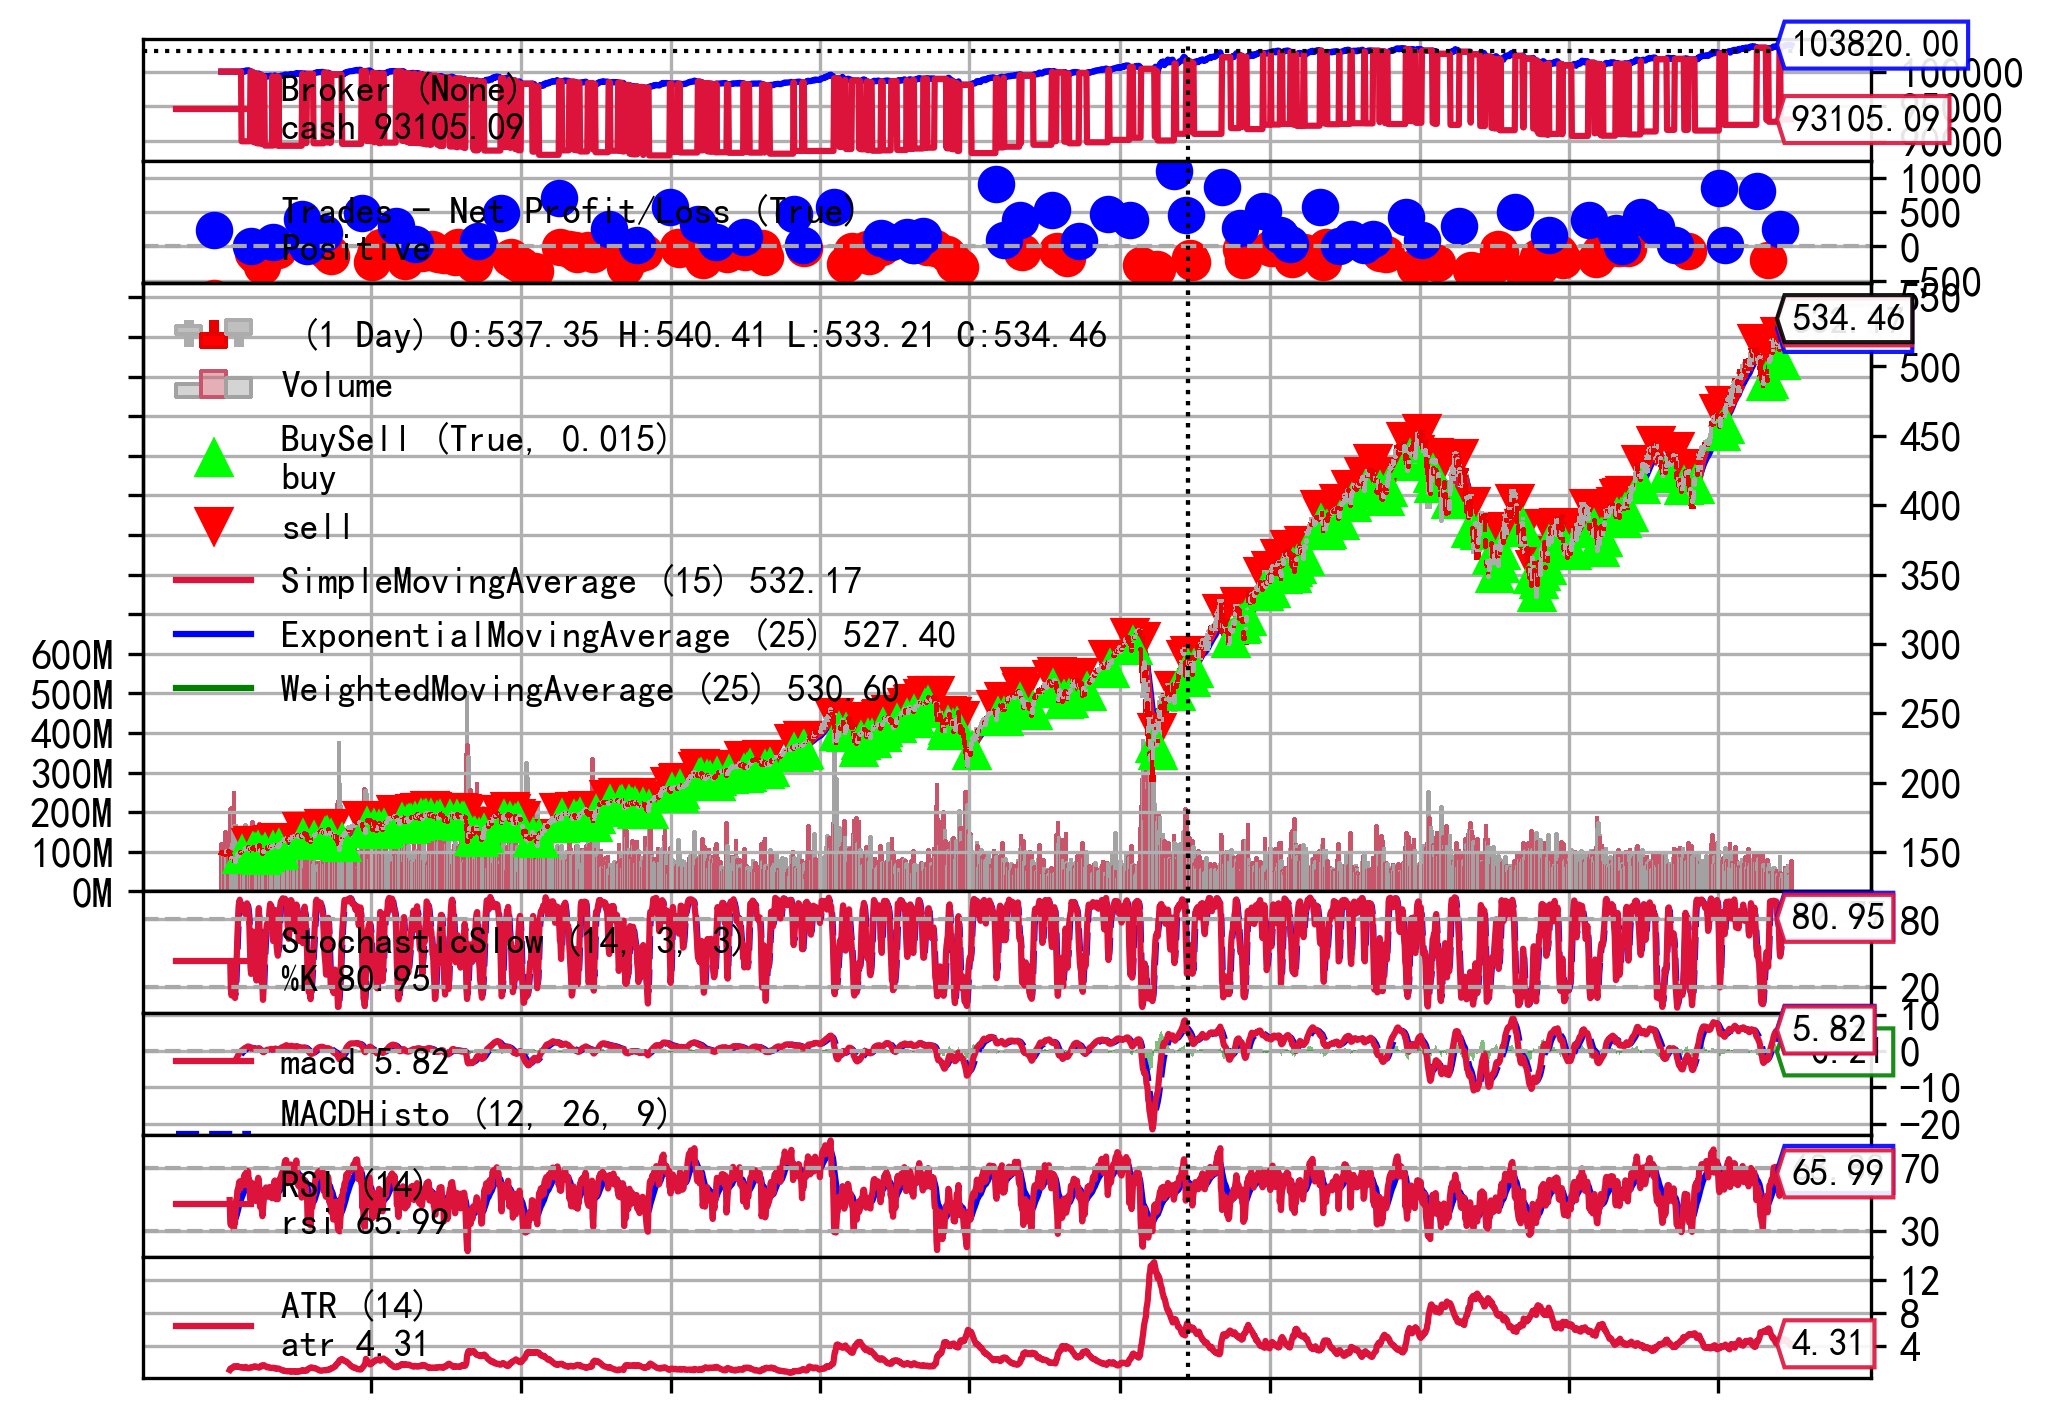
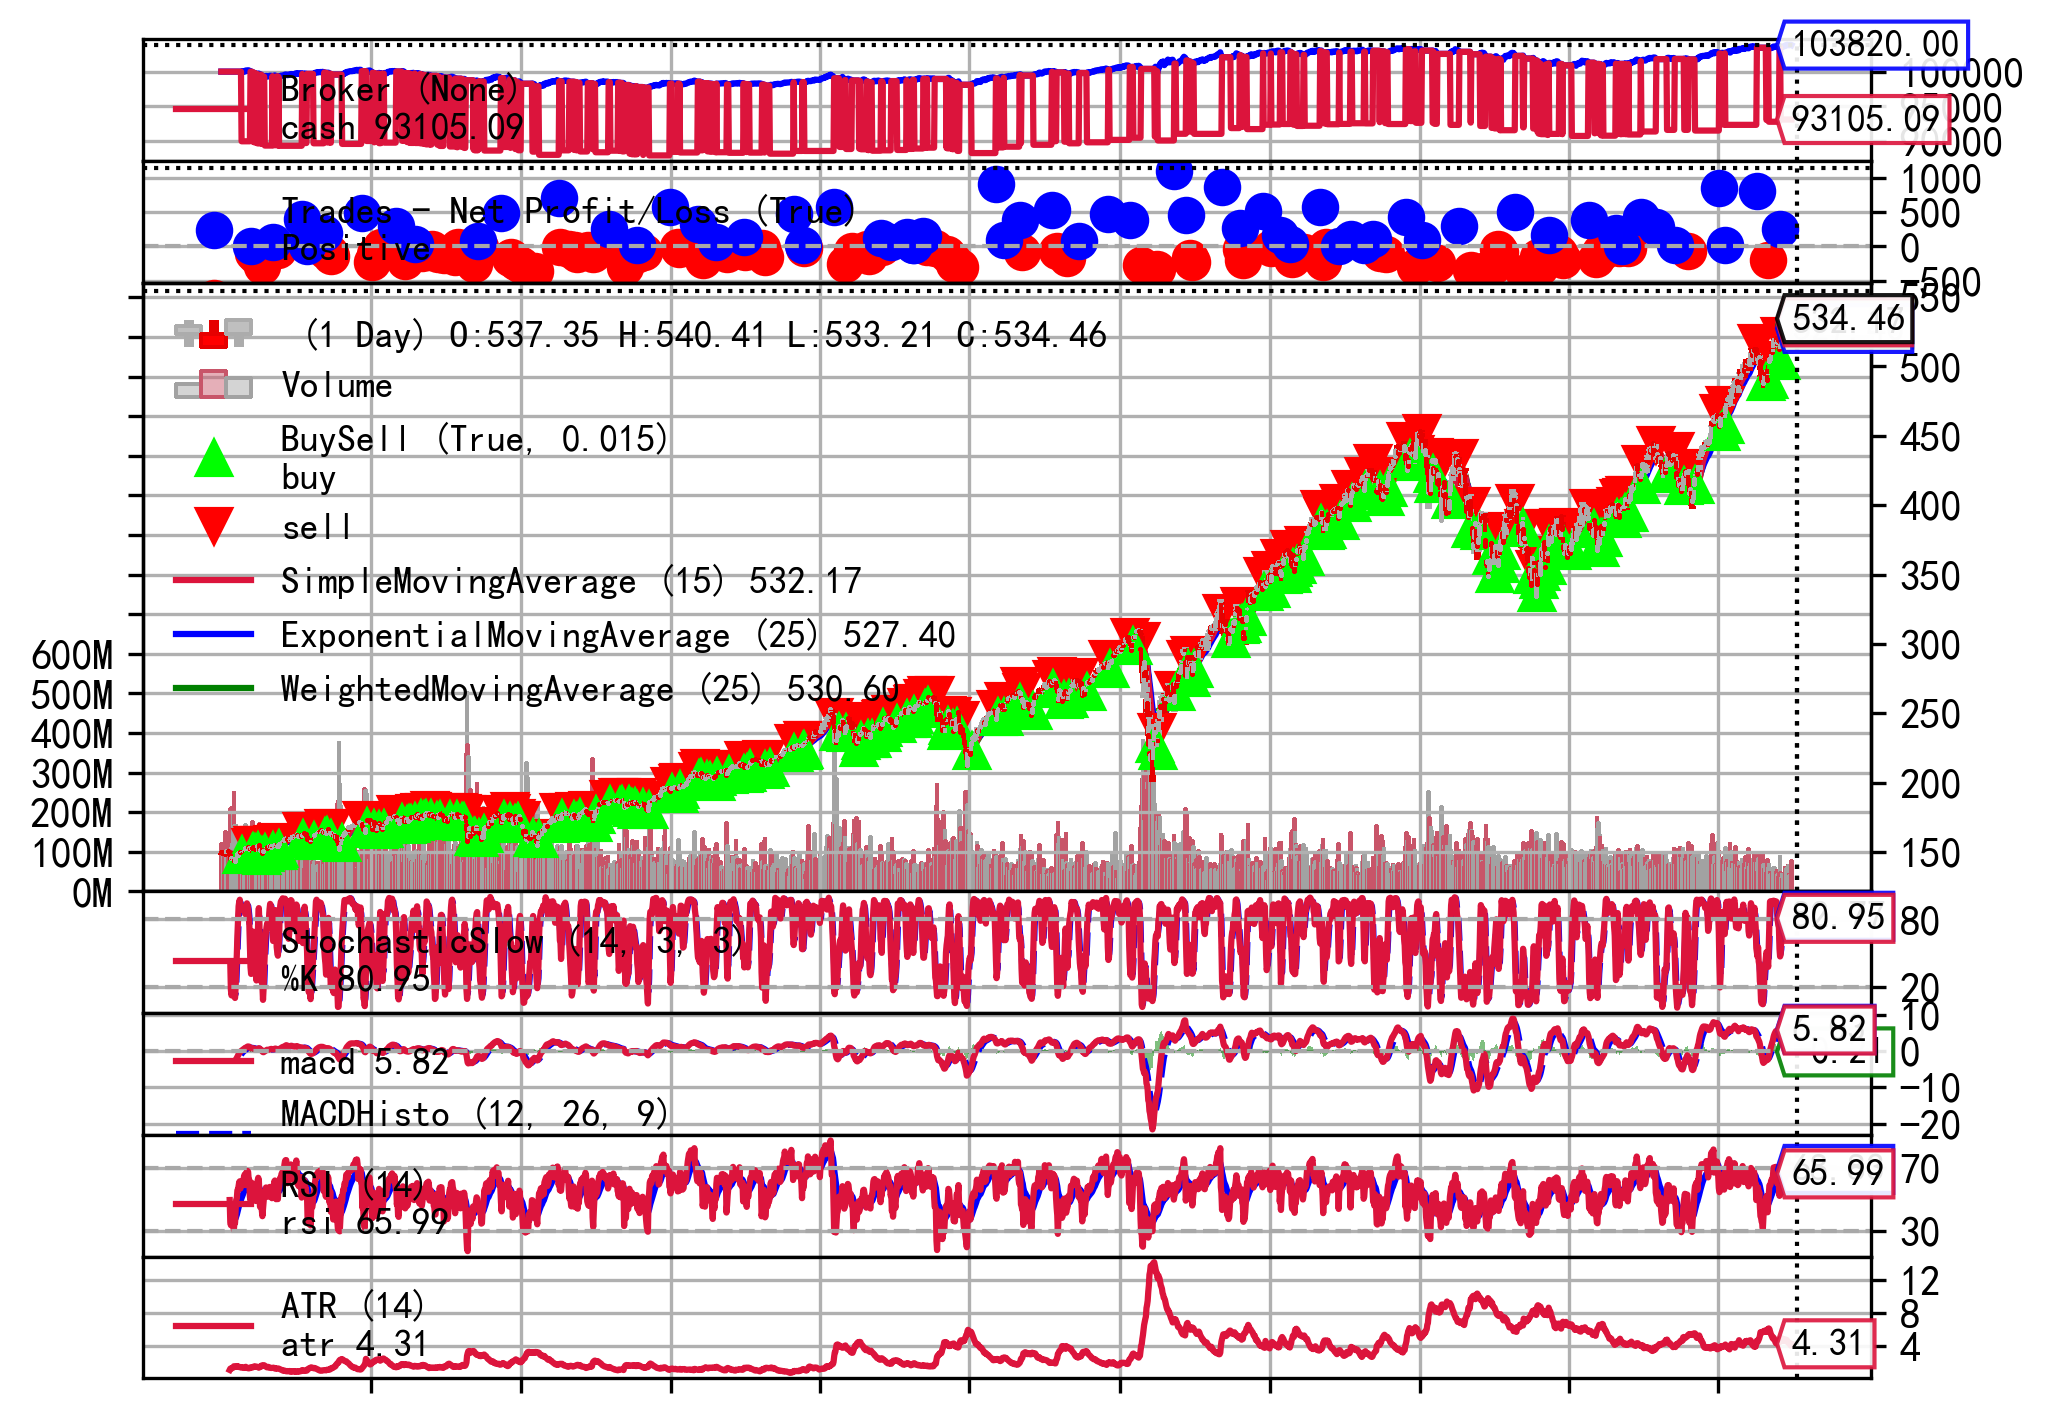
update

diff --git a/strategies/Trend_SMA.py b/strategies/Trend_SMA.py
@@ -2,6 +2,7 @@ import backtrader as bt
 import os
 import datetime
 import pandas as pd
+import numpy as np
 
 class trend_sma(bt.Strategy):
     params = (
@@ -32,6 +33,14 @@ class trend_sma(bt.Strategy):
         self.log_filename = os.path.join(backtests_log_dir, f'log_sma_{self.params.dataname}.txt')
         with open(self.log_filename, 'w', encoding='utf-8') as f:
             f.write('Date, Log Content\n')
+
+        self.trades = []  # 记录所有交易
+        self.equity_curve = []  # 资产净值曲线
+        self.highest_equity = 0  # 最高资产净值
+        self.drawdown_start = None  # 回撤开始时间
+        self.max_drawdown = 0  # 最大回撤
+        self.max_drawdown_duration = 0  # 最大回撤时长
+        self.current_drawdown_duration = 0  # 当前回撤时长
         
         bt.indicators.ExponentialMovingAverage(self.datas[0], period=25)
         bt.indicators.WeightedMovingAverage(self.datas[0], period=25).subplot = True
@@ -59,9 +68,21 @@ class trend_sma(bt.Strategy):
         self.order = None
 
     def notify_trade(self, trade):
-        if not trade.isclosed: # 交易未完成
+        """记录每笔交易的详细信息"""
+        if not trade.isclosed:
             return
-
+        
+        # 记录开仓时间、平仓时间、盈亏、手续费等交易信息
+        trade_info = {
+            'open_dt': trade.open_datetime(),
+            'close_dt': trade.close_datetime(), 
+            'gross_pnl': trade.pnl,
+            'net_pnl': trade.pnlcomm,
+            'commission': trade.commission,
+            'size': trade.size,
+            'direction': 'long' if trade.size > 0 else 'short'
+        }
+        self.trades.append(trade_info)
         self.log(f'OPERATION PROFIT, GROSS {trade.pnl:.2f}, NET {trade.pnlcomm:.2f}')
 
     def next(self):
@@ -78,3 +99,99 @@ class trend_sma(bt.Strategy):
             if self.dataclose[0] < self.sma[0]: # 移动平均线下穿
                 self.log(f'SELL CREATE, {self.dataclose[0]:.2f}')
                 self.order = self.sell()
+        
+        # 记录每日资产净值
+        current_equity = self.broker.getvalue()
+        current_dt = self.datas[0].datetime.datetime(0)
+        self.equity_curve.append((current_dt, current_equity))
+        
+        # 计算实时回撤
+        self.highest_equity = max(self.highest_equity, current_equity)
+        if self.highest_equity > 0:
+            current_drawdown = (self.highest_equity - current_equity) / self.highest_equity
+        else:
+            current_drawdown = 0
+        
+        # 更新最大回撤
+        if current_drawdown > self.max_drawdown:
+            self.max_drawdown = current_drawdown
+            self.drawdown_start = current_dt
+        elif current_drawdown == 0 and self.drawdown_start is not None:
+            drawdown_duration = (current_dt - self.drawdown_start).days
+            if drawdown_duration > self.max_drawdown_duration:
+                self.max_drawdown_duration = drawdown_duration
+            self.drawdown_start = None
+        
+        # 更新当前回撤时长
+        if self.drawdown_start is not None:
+            self.current_drawdown_duration = (current_dt - self.drawdown_start).days
+
+    def get_performance_metrics(self):
+        """计算并返回所有绩效指标"""
+        initial_capital = 100000.0
+        final_capital = self.broker.getvalue()
+        total_return = (final_capital - initial_capital) / initial_capital
+        
+        total_trades = len(self.trades)
+        winning_trades = [t for t in self.trades if t['net_pnl'] > 0]
+        losing_trades = [t for t in self.trades if t['net_pnl'] < 0]
+        
+        win_rate = len(winning_trades) / total_trades if total_trades > 0 else 0
+        avg_win = np.mean([t['net_pnl'] for t in winning_trades]) if winning_trades else 0
+        avg_loss = np.mean([t['net_pnl'] for t in losing_trades]) if losing_trades else 0
+        profit_factor = abs(sum([t['net_pnl'] for t in winning_trades]) / sum([t['net_pnl'] for t in losing_trades])) if losing_trades else float('inf')
+        
+        if self.equity_curve:
+            start_dt = self.equity_curve[0][0]
+            end_dt = self.equity_curve[-1][0]
+            total_days = (end_dt - start_dt).days
+            trading_days = len(self.equity_curve)
+            trade_frequency = total_trades / (total_days / 365) if total_days > 0 else 0  # 年交易次数
+        else:
+            total_days = 0
+            trading_days = 0
+            trade_frequency = 0
+        
+        daily_returns = []
+        for i in range(1, len(self.equity_curve)):
+            prev_equity = self.equity_curve[i-1][1]
+            curr_equity = self.equity_curve[i][1]
+            daily_return = (curr_equity - prev_equity) / prev_equity
+            daily_returns.append(daily_return)
+        
+        if daily_returns:
+            avg_daily_return = np.mean(daily_returns)
+            std_daily_return = np.std(daily_returns)
+            
+            # 夏普比率
+            risk_free_rate = 0.02 / 252  # 日无风险利率
+            sharpe_ratio = (avg_daily_return - risk_free_rate) / std_daily_return * np.sqrt(252) if std_daily_return != 0 else 0
+        else:
+            sharpe_ratio = 0
+        
+        # 回撤
+        max_drawdown = self.max_drawdown
+        max_drawdown_duration = self.max_drawdown_duration if self.max_drawdown_duration > 0 else self.current_drawdown_duration
+        
+        #年化收益率
+        annual_return = ((1 + total_return) ** (365 / total_days)) - 1 if total_days > 0 else 0
+        
+        metrics = {
+            '初始资金': initial_capital,
+            '最终资金': final_capital,
+            '总收益率': total_return,
+            '年化收益率': annual_return,
+            '夏普比率': sharpe_ratio,
+            '最大回撤': max_drawdown,
+            '最大回撤时长(天)': max_drawdown_duration,
+            '总交易次数': total_trades,
+            '胜率': win_rate,
+            '平均盈利': avg_win,
+            '平均亏损': avg_loss,
+            '盈利因子': profit_factor,
+            '年交易频率': trade_frequency,
+            '回测总天数': total_days,
+            '交易天数': trading_days
+        }
+        
+        return metrics

diff --git a/backtests/BackTest.py b/backtests/BackTest.py
@@ -25,6 +25,7 @@ if not os.path.exists(figs_dir):
 
 if __name__ == '__main__':
     datanames = ['SPY', '510050.SS','510300.SS', '510500.SS']
+    all_metrics = []
     for dataname in datanames:
         cerebro = bt.Cerebro()
         df = pd.read_csv(f'data/processed/{dataname}_2014_2024_clhov.csv', parse_dates=['datetime'], index_col='datetime')
@@ -36,12 +37,27 @@ if __name__ == '__main__':
         cerebro.addsizer(bt.sizers.PercentSizer, percents=10) # 每次交易10%的资金
         print(f'========== 回测 {dataname} ==========')
         print(f'初始资金: {cerebro.broker.getvalue():.2f}')
-        cerebro.run()
+        strategies = cerebro.run()
+        strategy = strategies[0]
+        
+        # 获取绩效指标
+        metrics = strategy.get_performance_metrics()
+        metrics['标的'] = dataname
+        all_metrics.append(metrics)
         final_value = cerebro.broker.getvalue()
         profit = final_value - 100000
-        print(f'最终资金: {final_value:.2f}')
+        # 打印核心指标
+        print(f'最终资金: {metrics["最终资金"]:.2f}')
         print(f'盈亏金额: {profit:.2f}')
         print(f'盈亏比例: {profit/100000*100:.2f}%')
+        print(f'总收益率: {metrics["总收益率"]:.2%}')
+        print(f'年化收益率: {metrics["年化收益率"]:.2%}')
+        print(f'夏普比率: {metrics["夏普比率"]:.2f}')
+        print(f'最大回撤: {metrics["最大回撤"]:.2%}')
+        print(f'最大回撤时长: {metrics["最大回撤时长(天)"]} 天')
+        print(f'总交易次数: {metrics["总交易次数"]}')
+        print(f'胜率: {metrics["胜率"]:.2%}')
+        print(f'年交易频率: {metrics["年交易频率"]:.1f} 次/年')
         log_path = os.path.join(backtests_dir, 'logs', f'log_sma_{dataname}.txt')
         print(f'日志路径: {log_path}')
         
